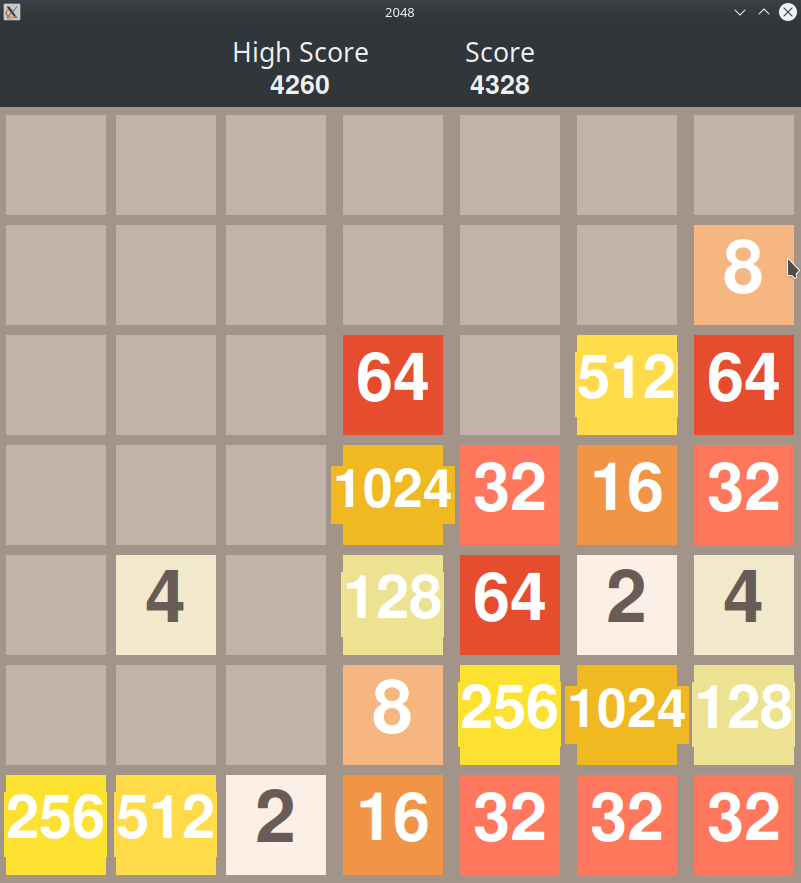
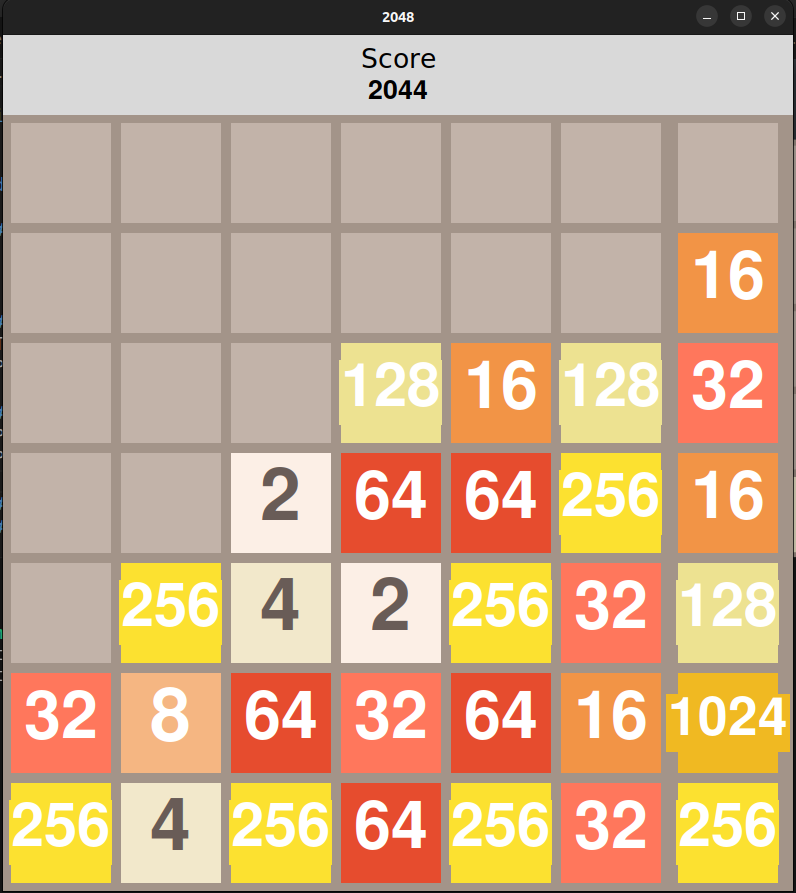
package versioning changes

diff --git a/main.py b/main.py
@@ -61,11 +61,6 @@ class Game(tk.Frame):
         self.master.bind("<Up>", self.up)
         self.master.bind("<Down>", self.down)
 
-        # Playing background Music
-        pygame.mixer.init()
-        pygame.mixer.music.load("music.mp3")
-        pygame.mixer.music.play()
-
         self.mainloop()
 
     # UI related functions 
@@ -101,7 +96,7 @@ class Game(tk.Frame):
         # Score header
         score_frame = tk.Frame(self)
         # Placing the score frame
-        score_frame.place(relx=0.5, x=100,y=40, anchor="center")
+        score_frame.place(relx=0.5, x=0,y=40, anchor="center")
         # Title label
         tk.Label(
             score_frame,
@@ -112,31 +107,6 @@ class Game(tk.Frame):
         # Score Label
         self.score_label = tk.Label(score_frame, text="0", font=cfg.SCORE_FONT)
         self.score_label.grid(row=1)
-
-        # High score header
-        high_score_frame = tk.Frame(self)
-        # placing the high score frame
-        high_score_frame.place(relx=0.5, x=-100,y=40, anchor="center")
-        # Title Label
-        tk.Label(
-            high_score_frame,
-            text="High Score",
-            font=cfg.SCORE_LABEL_FONT
-        ).grid(row=0)
-
-        # Storing the Score into txt file with winning text
-        with open(cfg.highScore, 'r') as file:
-            highscore = 0
-            tempscore = file.readline()
-            while(tempscore != ''):
-                zscore = int(tempscore)
-                if(zscore > highscore): 
-                    highscore = zscore
-                tempscore = file.readline()
-
-        # High Score Label
-        self.high_score_label = tk.Label(high_score_frame, text=highscore, font=cfg.HIGH_SCORE_FONT)
-        self.high_score_label.grid(row=1)
 
 
     # Sets value of any two random cells to 2,initializes score and logical matrix  
@@ -359,13 +329,6 @@ class Game(tk.Frame):
                 bg=cfg.WINNER_BG,
                 fg=cfg.GAME_OVER_FONT_COLOR,
                 font=cfg.GAME_OVER_FONT).pack()
-
-            # storing the score
-            with open(cfg.highScore, 'a') as file:
-                if(is_game_over != True):
-                    file.write(str(self.score))
-                    file.write("\n")
-                    is_game_over = True
                 
 
         # Else if no move exist --> Show Game Over
@@ -382,13 +345,7 @@ class Game(tk.Frame):
                 bg=cfg.LOSER_BG,
                 fg=cfg.GAME_OVER_FONT_COLOR,
                 font=cfg.GAME_OVER_FONT).pack()
-
-            # storing the score
-            with open(cfg.highScore, 'a') as file:
-                if(is_game_over != True):
-                    file.write(str(self.score))
-                    file.write("\n")
-                    is_game_over = True
+            
         
 # Display the copyright text
 def copyright():
@@ -401,6 +358,4 @@ def main():
 # Running the Game
 if __name__ == "__main__":
     copyright()
-    highscorefile = open(cfg.highScore,"a")
-    highscorefile.close()
     main()

diff --git a/README.md b/README.md
@@ -1,52 +1,28 @@
-# 2048 Game
+# ngrid
 ## The classic 2048 number game
 
-<hr />
 <div>
     <img src="screenshots/1.png" style="align:center;" />
 </div>
-<hr />
 
 ### Features
-
- - Playing with variable grid dimensions
- - Calculating and storing the highscores
+ - Play with variable grid dimensions
  - Current score live display
 
-<hr />
-
 ### Technologies used
-
 - Tkinter
 - PyGame
 
-<hr />
+### Requires
+- Python 3
+- PyGame 2.5.2
 
-### Requirements
-
-- Python v3 (pref 3.8.10)
-- PyGame v2 (pref 2.1.2)
-
-<hr />
-
-### How to play
-#### 1. Using this repo
-1. Clone this repository.
-```console
-foo@bar:~$ git clone https://github.com/RRkundkar777/2048-Game.git
+## How to play
+- Install via pip
+```shell
+python3 -m pip install ngrid
 ```
-2. cd to the root folder and type the following
-```console
-foo@bar:~/2048$ python3 main.py
-```
+- Download it from the [PyPI Link]()
 
-3. You can also specify the dimensions of 2048 grid by typing 
-```console
-foo@bar:~/2048$ python3 main.py --dim 8
-```
-<hr />
-
-### Developed by
-[Sanket Chaudhari](https://github.com/sanket190/) <br>
-[Rushikesh Kundkar](https://github.com/RRkundkar777) <br>
-[Sagar Patil](https://github.com/sagargpatil62/) <br>
+## Developed by
+[Rushikesh Kundkar](https://github.com/RRkundkar777)
